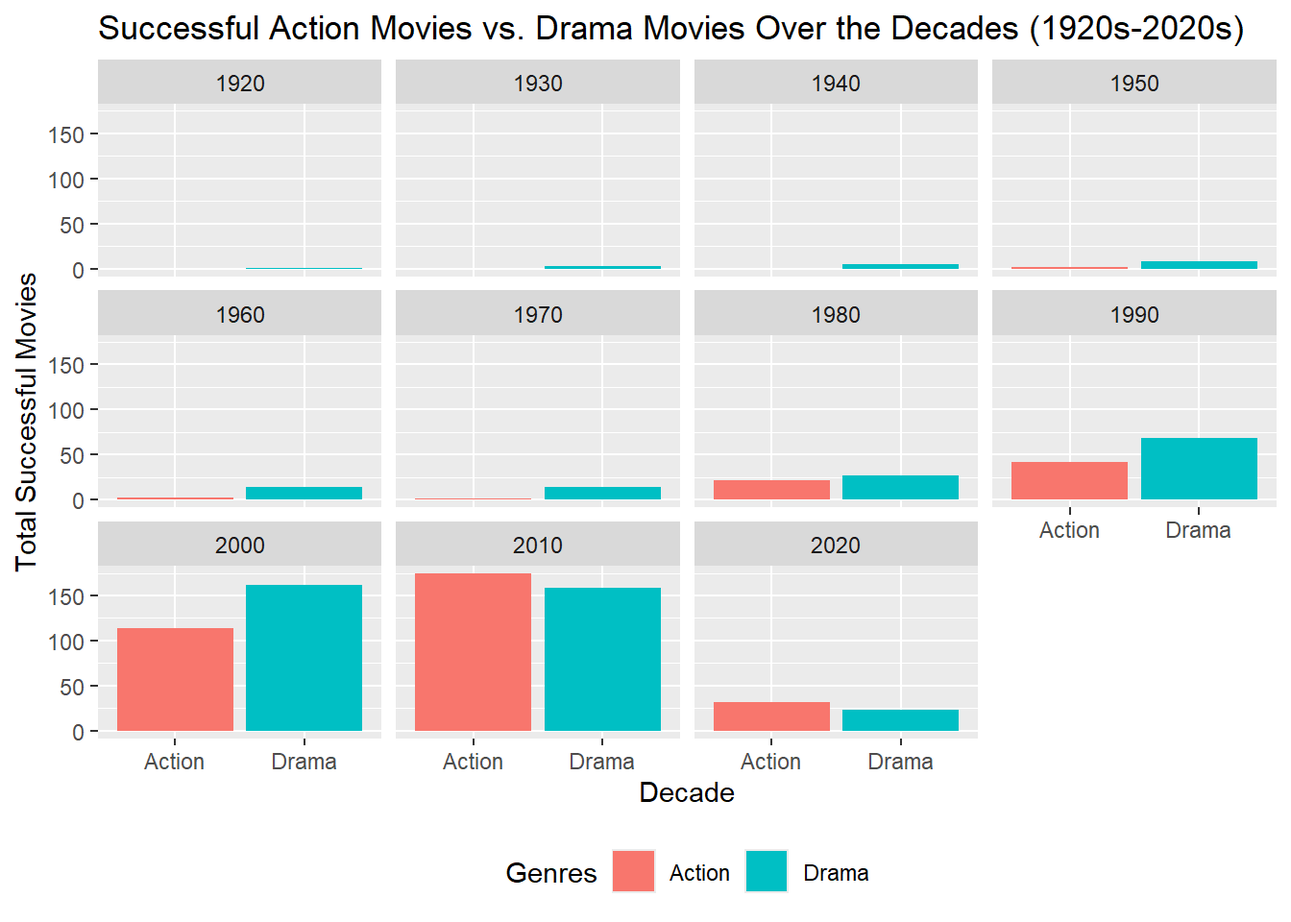
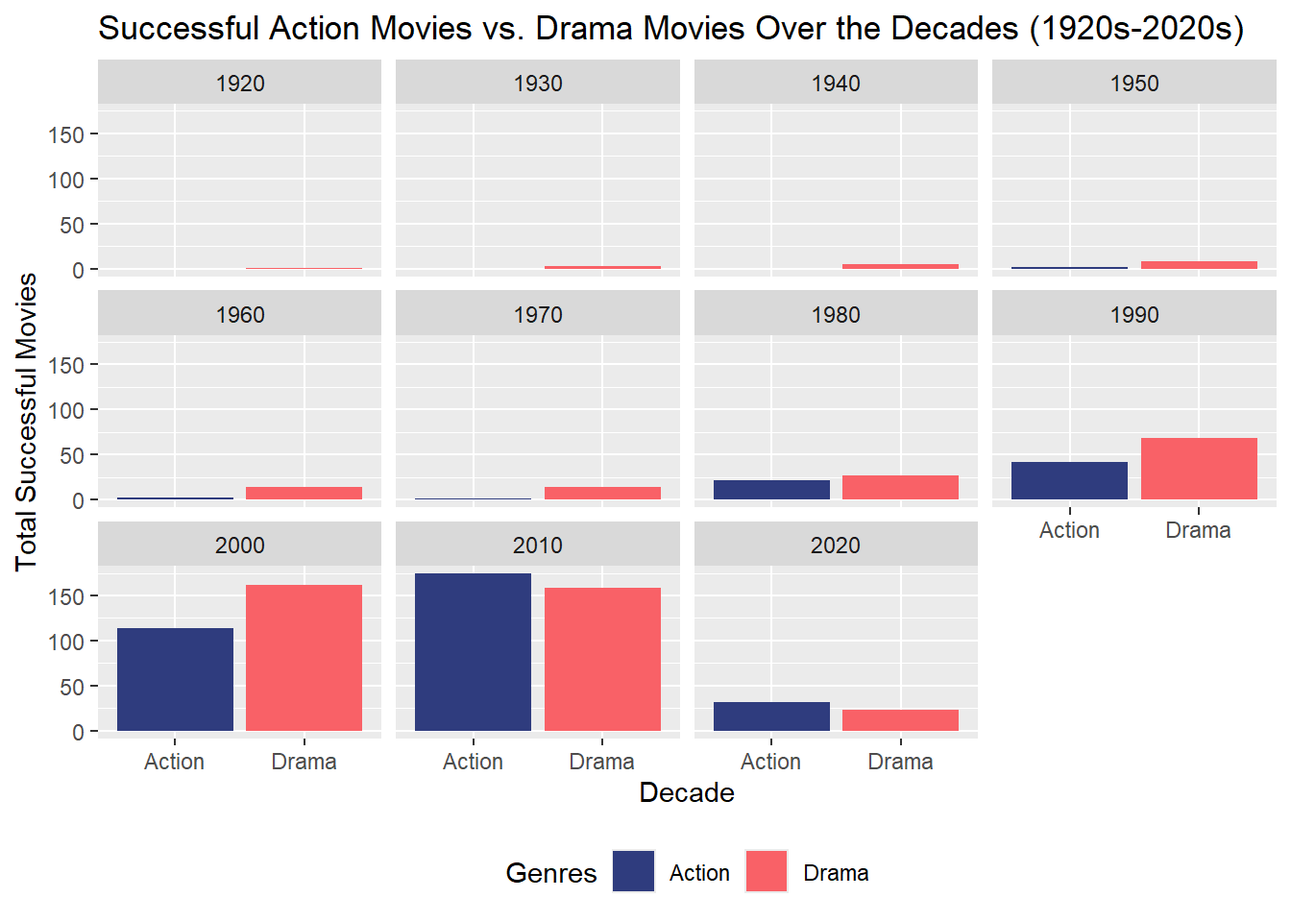
Updated formatting and edited some text.

diff --git a/docs/mp02.html b/docs/mp02.html
@@ -802,7 +802,7 @@ Validation Questions
 </div>
 </div>
 <p>For this question, I decided to filter my data table to include only movies that exceeded the 3rd quartile number of votes 1,665 votes with a success rate lower than the 1st quartile success indices 0.005.</p>
-<p>The lowest three were: Santa and the Ice Cream Bunny, Ax ’Em, and 2025 - The World Enslaved by a Virus. All three of these movies scored low on the success and had low average ratings from IMDb. <a href="https://www.rottentomatoes.com/">Rotten Tomatoes</a> provided some additional insight on these three movies. <em>Santa and the Ice Cream Bunny</em> scored a 12% on the popcornmeter (audience vote metric) out of a scale of 100, <em>Ax ’Em</em> scored a 36% on the popcornmeter, <em>2025 - The World Enslaved by a Virus</em> scored a 0% on the popcornmeter from Rotten Tomatoes. All of these movies scored generally low on this audience vote metric and thus confirms that these movies were of low quality.</p>
+<p>The lowest three were: <em>Santa and the Ice Cream Bunny</em>, <em>Ax ’Em</em>, and <em>2025 - The World Enslaved by a Virus</em>. All three of these movies scored low on the success and had low average ratings from IMDb. <a href="https://www.rottentomatoes.com/">Rotten Tomatoes</a> provided some additional insight on these three movies. <em>Santa and the Ice Cream Bunny</em> scored a 12% on the popcornmeter (audience vote metric) out of a scale of 100, <em>Ax ’Em</em> scored a 36% on the popcornmeter, <em>2025 - The World Enslaved by a Virus</em> scored a 0% on the popcornmeter from Rotten Tomatoes. All of these movies scored generally low on this audience vote metric and thus confirms that these movies were of low quality.</p>
 <div class="cell">
 <details class="code-fold">
 <summary>Code</summary>
@@ -822,7 +822,7 @@ Validation Questions
 </div>
 </div>
 <p><strong>Question #3</strong>: Choose a prestige actor or director and confirm that they have many projects with high scores on your success metric.</p>
-<p>After researching some of the most prestigious directors in the movie business, I found Steven Spielberg among the most popular directors and decided to use his data as a validation source for my success metric. Taking a look at the distribution of success for his works in the past, I found that a large majority of his works score higher on the success index than about 75% of the entire movie data set. This is a good indication that Steven Spielberg’s work is typically more successful.</p>
+<p>After researching some of the most prestigious directors in the movie business, I found Steven Spielberg among the most popular directors and decided to use his data as a validation source for my success metric. Taking a look at the distribution of success for his works in the past below, I found that a large majority of his works score higher on the success index than about 75% of the entire movie data set (indicated by the red dashed line). This is a good indication that Steven Spielberg’s work is typically more successful.</p>
 <div class="cell">
 <details class="code-fold">
 <summary>Code</summary>
@@ -1106,7 +1106,9 @@ Film Genre Questions
 <span id="cb68-7"><a href="#cb68-7" aria-hidden="true" tabindex="-1"></a>       <span class="at">x =</span> <span class="st">"Decade"</span>,</span>
 <span id="cb68-8"><a href="#cb68-8" aria-hidden="true" tabindex="-1"></a>       <span class="at">y =</span> <span class="st">"Total Successful Movies"</span>) <span class="sc">+</span></span>
 <span id="cb68-9"><a href="#cb68-9" aria-hidden="true" tabindex="-1"></a>  <span class="fu">scale_fill_discrete</span>(<span class="at">name =</span> <span class="st">"Genres"</span>) <span class="sc">+</span></span>
-<span id="cb68-10"><a href="#cb68-10" aria-hidden="true" tabindex="-1"></a>  <span class="fu">theme</span>(<span class="at">legend.position =</span> <span class="st">"bottom"</span>)</span></code><button title="Copy to Clipboard" class="code-copy-button"><i class="bi"></i></button></pre></div>
+<span id="cb68-10"><a href="#cb68-10" aria-hidden="true" tabindex="-1"></a>  <span class="fu">theme</span>(<span class="at">legend.position =</span> <span class="st">"bottom"</span>) <span class="sc">+</span></span>
+<span id="cb68-11"><a href="#cb68-11" aria-hidden="true" tabindex="-1"></a>  <span class="fu">scale_fill_manual</span>(<span class="at">name =</span> <span class="st">"Genres"</span>,</span>
+<span id="cb68-12"><a href="#cb68-12" aria-hidden="true" tabindex="-1"></a>                    <span class="at">values =</span> <span class="fu">c</span>(<span class="st">"Action"</span> <span class="ot">=</span> <span class="st">"#2F3C7E"</span>, <span class="st">"Drama"</span> <span class="ot">=</span> <span class="st">"#F96167"</span>))</span></code><button title="Copy to Clipboard" class="code-copy-button"><i class="bi"></i></button></pre></div>
 </details>
 <div class="cell-output-display">
 <div>
@@ -1157,7 +1159,7 @@ Film Genre Questions
 <span id="cb70-13"><a href="#cb70-13" aria-hidden="true" tabindex="-1"></a>  <span class="fu">arrange</span>(<span class="fu">desc</span>(percentage))</span></code><button title="Copy to Clipboard" class="code-copy-button"><i class="bi"></i></button></pre></div>
 </details>
 </div>
-<p>After taking a closer look, I found that actually the Sci-Fi genre produced the highest percentage of successes with 3.46% of successful movies, followed by Adventure with insert percentage here 3.16%. While the genres Action and Drama had the <strong>most</strong> successes, this could have been due to the considerable amount of movies produced in those genres. Sometimes, it is less about the quantity produced and more about the quality being produced. Despite the Sci-Fi genre not producing nearly the same amount of films as the Action and Drama genres, the percentage of successful films to come out of this genre is higher than the others, which is why we need to consider the Sci-Fi genre as a successful genre as well.</p>
+<p>After taking a closer look, I found that actually the Sci-Fi genre produced the highest percentage of successes with 3.46% of successful movies, followed by Adventure with 3.16%. While the genres Action and Drama had the <strong>most</strong> successes, this could have been due to the considerable amount of movies produced in those genres. Sometimes, it is less about the quantity produced and more about the quality being produced. Despite the Sci-Fi genre not producing nearly the same amount of films as the Action and Drama genres, the percentage of successful films to come out of this genre is higher than the others, which is why we need to consider the Sci-Fi genre as a successful genre as well.</p>
 <div class="cell">
 <details class="code-fold">
 <summary>Code</summary>
@@ -1278,7 +1280,9 @@ Film Genre Questions
 </section>
 <section id="genre-selection" class="level3">
 <h3 class="anchored" data-anchor-id="genre-selection">Genre Selection</h3>
-<p>The Drama genre’s dominance in the film industry was evident from the earliest days into the 21st century, with a consistently high output of successful movies. Drama movies succeeded in the 20th century, a period of significant social change and historical events, by evoking emotions and connecting with its audience’s experience. Over time, as the world experienced a technology boom, the movie industry also reflected this by observing a shift in genre success. Starting in the 2010s decade, the Action genre overtook Drama as the most dominant genre, producing more successful movies. The introduction of new technology like computer-generated imagery (CGI) and advanced stunt technology allowed for bolder and more fantastical movie production, propelling newer genres like Action to overtake traditional movies. However, despite the high output of successful Action films in more recent decades, its proportion of successful movies in relation to its total output lags behind genres like Sci-Fi and Adventure which each produce more successful movies per movie created in their respective genres. Since the Sci-Fi genre has a high success rate and somewhat of a low production (as compared to other genres), I would like to pursue a movie in the <strong>Sci-Fi</strong> genre.</p>
+<p>The Drama genre’s dominance in the film industry was evident from the earliest days into the 21st century, with a consistently high output of successful movies. Drama movies succeeded in the 20th century, a period of significant social change and historical events, by evoking emotions and connecting with its audience’s experience.</p>
+<p>Over time, as the world experienced a technology boom, the movie industry also reflected this by observing a shift in genre success. Starting in the 2010s decade, the Action genre overtook Drama as the most dominant genre, producing more successful movies. The introduction of new technology like computer-generated imagery (CGI) and advanced stunt technology allowed for bolder and more fantastical movie production, propelling newer genres like Action to overtake traditional movies.</p>
+<p>However, despite the high output of successful Action films in more recent decades, its proportion of successful movies in relation to its total output lags behind genres like Sci-Fi and Adventure which each produce more successful movies per movie created in their respective genres. Since the Sci-Fi genre has a high success rate and somewhat of a low production (as compared to other genres), I would like to pursue a movie in the <strong>Sci-Fi</strong> genre.</p>
 </section>
 </section>
 <section id="successful-personnel-in-the-genre" class="level2">
@@ -1332,7 +1336,7 @@ Film Genre Questions
 <pre><code>Steven Spielberg Top  1.69 % of Sci-Fi Directors</code></pre>
 </div>
 </div>
-<p>In the histogram below, Steven Spielberg actually ranks in the top 1.69% of Sci-Fi directors, solidifying his position as a highly successful director among the most top tier Sci-Fi directors.</p>
+<p>In the histogram below, Steven Spielberg actually ranks in the top 1.69% of Sci-Fi directors, solidifying his position as a highly successful director among the most top tier Sci-Fi directors. The blue dashed line indicates where Spielberg’s average success metric falls in relation to other Sci-Fi directors.</p>
 <div class="cell">
 <details class="code-fold">
 <summary>Code</summary>
@@ -1355,7 +1359,7 @@ Film Genre Questions
 </div>
 </div>
 </div>
-<p>Taking a closer look at the Sci-Fi films that Spielberg has produced, we can see that a large majority of the Sci-Fi films Spielberg has been a part of have been successes.</p>
+<p>Taking a closer look at the Sci-Fi films that Spielberg has produced, we can see that a large majority of the Sci-Fi films Spielberg has been a part of have been successes. The red dashed line indicates the success threshold of v = 0.2.</p>
 <div class="cell">
 <details class="code-fold">
 <summary>Code</summary>
@@ -1456,7 +1460,8 @@ Film Genre Questions
 <span id="cb82-26"><a href="#cb82-26" aria-hidden="true" tabindex="-1"></a>       <span class="at">fill =</span> <span class="st">"Directors"</span>) <span class="sc">+</span></span>
 <span id="cb82-27"><a href="#cb82-27" aria-hidden="true" tabindex="-1"></a>  <span class="fu">theme</span>(<span class="at">legend.position =</span> <span class="st">"bottom"</span>) <span class="sc">+</span></span>
 <span id="cb82-28"><a href="#cb82-28" aria-hidden="true" tabindex="-1"></a>  <span class="fu">scale_x_discrete</span>(<span class="at">limits =</span> movie_order) <span class="sc">+</span></span>
-<span id="cb82-29"><a href="#cb82-29" aria-hidden="true" tabindex="-1"></a>  <span class="fu">scale_fill_discrete</span>(<span class="at">guide =</span> <span class="fu">guide_legend</span>(<span class="at">reverse =</span> <span class="cn">TRUE</span>))</span></code><button title="Copy to Clipboard" class="code-copy-button"><i class="bi"></i></button></pre></div>
+<span id="cb82-29"><a href="#cb82-29" aria-hidden="true" tabindex="-1"></a>  <span class="fu">scale_fill_manual</span>(<span class="at">values =</span> <span class="fu">c</span>(<span class="st">"Steven Spielberg"</span> <span class="ot">=</span> <span class="st">"#519DE9"</span>, <span class="st">"James Mangold"</span> <span class="ot">=</span> <span class="st">"#f94449"</span>),</span>
+<span id="cb82-30"><a href="#cb82-30" aria-hidden="true" tabindex="-1"></a>                    <span class="at">guide =</span> <span class="fu">guide_legend</span>(<span class="at">reverse =</span> <span class="cn">TRUE</span>))</span></code><button title="Copy to Clipboard" class="code-copy-button"><i class="bi"></i></button></pre></div>
 </details>
 <div class="cell-output-display">
 <div>
@@ -1493,7 +1498,7 @@ Film Genre Questions
 <script type="application/json" data-for="htmlwidget-392e43c592915f7830e6">{"x":{"filter":"none","vertical":false,"data":[["nm2195817","nm2954703","nm7210986","nm4087524","nm4043618","nm1727057","nm3918035","nm8075925","nm2875966","nm3094377","nm3237775","nm3154303","nm2640264","nm2954597","nm5896355","nm2079681","nm2794962","nm5994098","nm6073955","nm5611121","nm5052065","nm4590173","nm3041648","nm8188622","nm6552202","nm4240577","nm2864252","nm0416699","nm1517875","nm2185462","nm4927704","nm1631269","nm2023672","nm1470128","nm1904886","nm3492402","nm2619114","nm4699715","nm8314228","nm4753307","nm1339223","nm5897057","nm6819854","nm7887725","nm9165599","nm4446467","nm5421877","nm1519680","nm1113550","nm1535523","nm5015107","nm2389463","nm4806449","nm5155952","nm2240346","nm3538718","nm3886028","nm7093076","nm1627988","nm3505032","nm4948500","nm2633535","nm0266824","nm4960279","nm3239803","nm3652842","nm5097044","nm8731249","nm1997480","nm3170207","nm3480246","nm9305936","nm2065398","nm4726634","nm1102577","nm1496319","nm8958770","nm7543974","nm7230577","nm7359071","nm2030779","nm6761813","nm2215143","nm3441152","nm3774109","nm4861346","nm5506858","nm7650817","nm9209960","nm3557613","nm3843467","nm5480894","nm2773059","nm5277107","nm5860559","nm2556904","nm4725309","nm2425105","nm2484195","nm4977564","nm6076321","nm1842974","nm2044796","nm3849842","nm3945747","nm2610277","nm4563780","nm2740002","nm8850556","nm5145057","nm9311474","nm1262166","nm4825013","nm3121384","nm1882929","nm3198709","nm5589690","nm6304865","nm3240434","nm3929195","nm7987534","nm1294664","nm1525807","nm4469165","nm6216001","nm1483241","nm3920288","nm4814017","nm5462166","nm3419119","nm8077090","nm4055138","nm1934618","nm4722966","nm4836100","nm2301950","nm4920741","nm6408859","nm7393303","nm2970078","nm3047077","nm5994559","nm10035940","nm1367490","nm2743784","nm3586035","nm5196907","nm6140880","nm2398694","nm2640887","nm10023988","nm1795989","nm2344493","nm6563873","nm2786608","nm2187641","nm2443758","nm2523920","nm4789062","nm6675440","nm1364532","nm2254074","nm5303080","nm7775934","nm1891158","nm2572554","nm2811823","nm3400186","nm3425494","nm3559009","nm4563869","nm8467055","nm1370269","nm4796309","nm5302788","nm9875384","nm3127051","nm3453476","nm2858875","nm3856188","nm4001975","nm4965072","nm1505370","nm2124254","nm3665657","nm1702723","nm3929887","nm5801924","nm6914293","nm7961340","nm8337290","nm2498552","nm3056937","nm4457775","nm6239256","nm6057785","nm6165535","nm7659282","nm8065502","nm9257848","nm10587791","nm1326000","nm14293621","nm2212688","nm3731944","nm4729403","nm6001320","nm2421367","nm4883197","nm5193462","nm6189601","nm7717840","nm8037342","nm9642493","nm9913973","nm10182951","nm2356963","nm3602806","nm5614461","nm10174309","nm1832645","nm2027428","nm2692001","nm3034501","nm3382410","nm4153468","nm6829691","nm9524976","nm1504644","nm2922341","nm3276835","nm8367841","nm9090581","nm10584760","nm12282746","nm5315479","nm7594279","nm8020147","nm8774122","nm9450603","nm2277072","nm2624923","nm5844090","nm7108248","nm7504614","nm8981755","nm11459716","nm11908762","nm3385128","nm4007171","nm4589523","nm5219118","nm6136318","nm7441315","nm8566784","nm0860687","nm10177869","nm6092929","nm0425287","nm1133857","nm1169797","nm2523928","nm2566096","nm2836740","nm2987726","nm3036925","nm4001114","nm4024158","nm4083120","nm4785118","nm5637334","nm9350576","nm9991365","nm10040186","nm3577079","nm4205963","nm4238309","nm4937591","nm5128387","nm5400953","nm6338727","nm6674017","nm6914447","nm10404430","nm12608848","nm14833307","nm2264199","nm4120909","nm4309684","nm4514442","nm5683784","nm5729528","nm9574516","nm0616481","nm11542966","nm13537177","nm3415802","nm3873895","nm4081467","nm4115744","nm4724525","nm4845037","nm4961623","nm5531935","nm6000119","nm6215731","nm6648061","nm7144013","nm7318700","nm7591921","nm8306579","nm8630844","nm10448524","nm10921740","nm15496845","nm2065668","nm2352896","nm2965079","nm3827211","nm3893807","nm4750182","nm5120200","nm6594362","nm6832719","nm7308188","nm7329736","nm8194302","nm8387514","nm11207129","nm11443776","nm12745887","nm1559927","nm2316151","nm2854131","nm3109658","nm3145634","nm3582197","nm4350996","nm5211886","nm5352046","nm5979068","nm6836919","nm6982686","nm7134395","nm7387710","nm8629695","nm9984948","nm10833355","nm11142694","nm11382629","nm12106219","nm12786101","nm12953205","nm1983609","nm2366492","nm3817466","nm4157570","nm4377936","nm4745013","nm5393649","nm5455787","nm5644551","nm5780417","nm6224152","nm7535414","nm8029525","nm8682294","nm8874294","nm11083042","nm12127644","nm1534909","nm2021156","nm2885133","nm2961248","nm2965625","nm3241167","nm3737209","nm4119074","nm4189269","nm4197678","nm4988864","nm5030374","nm5542761","nm5566180","nm5758954","nm6523480","nm6598013","nm7052261","nm7407528","nm8910575","nm9160478","nm9288379","nm9708304","nm10006190","nm11327041","nm13965142","nm2330321","nm2598945","nm2712661","nm2740213","nm3449999","nm4485819","nm4571370","nm4854961","nm5184025","nm5572843","nm5615125","nm5954636","nm6044626","nm6191647","nm6215441","nm6377317","nm7126666","nm7227027","nm8747878","nm9063492","nm0990679","nm1151223","nm1327077","nm13274469","nm2782505","nm3174585","nm3432082","nm4376572","nm4676512","nm5618871","nm5713359","nm6279069","nm6294928","nm6716450","nm6902009","nm6929994","nm7165209","nm7184317","nm10152396","nm10361469","nm12913316","nm1517297","nm1534694","nm2547201","nm2900452","nm3835968","nm3861093","nm4136800","nm5199313","nm5617568","nm6517501","nm7093928","nm7593690","nm7752825","nm7998427","nm8395315","nm8719707","nm9113275","nm10533080","nm11492652","nm11790300","nm12693539","nm2539253","nm2676589","nm2856538","nm3379792","nm4077567","nm4104916","nm4302042","nm5153709","nm5425625","nm5703727","nm5837781","nm6371226","nm7661368","nm7744616","nm7779130","nm8294124","nm8435114","nm8694418","nm9146558","nm9296873","nm9596175","nm1085816","nm12340952","nm12751419","nm12751420","nm12751421","nm12751422","nm13015385","nm1455721","nm2376318","nm2788600","nm3916896","nm4974693","nm4985295","nm5391976","nm5547023","nm5947080","nm6403015","nm6937225","nm7146328","nm7440904","nm7594539","nm7601638","nm8036353","nm8960303","nm9014954","nm9638766","nm11539428","nm2542694","nm4005126","nm4813542","nm5563537","nm5623097","nm5810134","nm6926413","nm6943131","nm8528863","nm8752530","nm9290412","nm9764756","nm12231945","nm12308504","nm2310307","nm2399308","nm3731361","nm4658287","nm5853453","nm6250010"],["Samantha Mahurin","Zoë Soul","Erin Kellyman","Riley Griffiths","Tom Holland","Luke Bromley","Zendaya","Millicent Simmonds","Laurence Belcher","Willow Shields","Mackenzie Foy","Timothée Chalamet","CJ Adams","Aryana Engineer","Anya Taylor-Joy","Morgan Lily","Hailee Steinfeld","Archie Madekwe","Florence Pugh","Millie Bobby Brown","Ansel Elgort","Emma Tremblay","Lara Robinson","Jacob Batalon","Brianna Hildebrand","Khylin Rhambo","Mason Gooding","Liam James","Zach Mills","Charlie Rowe","Xolo Maridueña","Chloë Grace Moretz","Dakota Goyo","Tanveer K. Atwal","Mia Stallard","Emjay Anthony","Ryan Lee","Madeleine Arthur","Cailee Spaeny","Suraj Partha","Ty Simpkins","Jaeden Martell","Justice Smith","Fionn Whitehead","Quintessa Swindell","Tye Sheridan","Julian Dennison","Saoirse Ronan","Abigail Breslin","Jaden Smith","Jacob Lofland","Bill Milner","Joseph Quinn","Brandon Perea","Kodi Smit-McPhee","Nick Robinson","Angourie Rice","Lana Condor","Fallon Brooking","Izzy Meikle-Small","Blake Cooper","Asa Butterfield","Dakota Fanning","Margaret Qualley","Kaitlyn Dever","Isaac Hempstead Wright","Isabela Merced","Ayo Edebiri","Nathan Gamble","Noah Centineo","Ella Purnell","Celeste O'Connor","Evie Thompson","Haley Lu Richardson","Elle Fanning","Ashlyn Sanchez","Paul Mescal","Aaron Pierre","Mathilde Ollivier","Ewan Mitchell","Moises Arias","Jenna Davis","Kiernan Shipka","Israel Broussard","Sami Gayle","Algee Smith","Andi Matichak","Belissa Escobedo","Barbie Ferreira","Karan Brar","Odeya Rush","Ashton Sanders","Gabriel Basso","Keean Johnson","Tofi Seffer","Tiffany Espensen","James Tarpey","Chandler Canterbury","Ricardo Hoyos","Storm Reid","Amelia Crouch","Alex Wolff","Jackson Bond","Sophie Turner","Yukito Nishii","Haley Pullos","Aurora Perrineau","Clare Foley","Archie Renaux","Talitha Eliana Bateman","Jeon Jong-seo","Ariel Gade","Kiara Glasco","Becky G","Liana Liberato","John Paul Ruttan","Madison Iseman","Jordan Bolger","Jakob Davies","Erin Moriarty","Jessica Alexander","Ellar Coltrane","Joel Courtney","Garance Marillier","KJ Apa","Dylan Hartigan","Taissa Farmiga","Kylie Rogers","Madison Hu","Reese Hartwig","Myles Truitt","Charlie Plummer","Max Charles","Virginia Gardner","Nell Tiger Free","Dakota Blue Richards","Rory J Saper","Michael Gandolfini","Sophie Thatcher","Jessica Clement","Nele Trebs","Danielle Rose Russell","Manushi Chhillar","Bruna Marquezine","Megan Charpentier","Maisie Williams","Courtney Eaton","Clara Rugaard","Karley Scott Collins","Stefanie Scott","Havana Rose Liu","Leo Howard","Brandon Thomas Lee","Kyle Allen","Callan McAuliffe","Ohga Tanaka","Nicola Peltz Beckham","Logan Polish","Lucius Hoyos","Lily-Rose Depp","Ryan Simpkins","Bella Thorne","William Ainscough","Alaya F","Scotty Noyd Jr.","Peyton List","Sierra McCormick","Julia Garner","Ursula Parker","Paula Beer","Sophie Nélisse","Alexxis Lemire","Max Burkholder","Josie Totah","Jeff Wahlberg","Milena Smit","Olivia Holt","Anne Winters","Sydney Sweeney","Gracie Whitton","Mattie Liptak","Lukas Gage","Hannah Leigh","Grayson Russell","Levi Lobo","Sol Moreno","Lili Reinhart","Gizem Emre","Milena Radulovic","Matilda Freeman","Inez Dahl Torhaug","Kim Yoo-jung","Nerea Camacho","Ella Hunt","Brittany O'Grady","Milo Parker","Jinmai Zhao","Juliet Simmons","Dempsey Bryk","Go Min-si","Hope Ikpoku Jnr","Teja Sajja","Freen Sarocha Chankimha","Patrick Criado","Ekaterina Starshova","Nick Purcha","Chanté Adams","Cody Christian","Meg Donnelly","Hirona Yamazaki","Esther Anil","Milo Campanale","Lukita Maxwell","Sadie Stanley","Kim Da-mi","Chaithra J. Achar","Bea Miller","Autumn Wendel","Spencer Bogaert","Gouri Kishan","Kuan-Po Chen","Óscar Casas","Tom Böttcher","Natalia Dyer","Ruby O. Fee","Hana Hayes","Théodore Pellerin","Chuxiao Qu","Hans-Laurin Beyerling","Jiao Xu","Brighton Sharbino","Lauren LaVera","Caylee Cowan","Mirnalini Ravi","Rebecca Patricia 'Becky' Armstrong","Tilda Cobham-Hervey","Lovie Simone","Justin Matthews","Eric Masip","Preethi Asrani","Kayla Carlson","Jacob Hopkins","Malina Pauli Weissman","Bae Suzy","Ned Porteous","Jung Da-Eun","Divya Narni","Mandava Sai Kumar","Chandler Riggs","Percy Hynes White","Théophile Baquet","Gina Piersanti","Garrett Wareing","Lee Soo-kyung","Eman Esfandi","Sara Thompson","Divya Sripada","Reina Ueda","Jake Johnson","Rosie Day","Ai Hashimoto","Jasper Polish","Ryan Grantham","Danielle Campbell","Shim Eun-kyung","Greta Fernández","Mikel Iglesias","Diamond White","Gabrielle Elyse","Ayane Sakura","Mio Yûki","Indhuja Ravichandran","Benjamin Dino","Asante Blackk","Anfisa Chernykh","Oulaya Amamra","Mila Böhning","Emily Marie Palmer","Teo Halm","Sofia Lesaffre","Can Bartu Aslan","Sarah Assumma","Chae Soo-bin","Sonya Priss","Md Anan Islam","Ahamed Danial Al Fayed","Robbie Kay","Tanner Buchanan","Ketaki Mategaonkar","Ryôsuke Yamamoto","Denis Muric","Kavya Thapar","Tanya Hope","Omar Muñoz","Veronika Ustimova","Nahna James","Vassili Schneider","Artyom Fadeev","Kento Yamazaki","Joost Koning","Jonas Smulders","Jade Chynoweth","Isabelle Allen","Sydne Mikelle","Emery Kelly","Cooper van Grootel","Gabrielle Haugh","Park Seo-yeon","Shannon Berry","Roh Jeong-eui","Megha Akash","Gavin Leatherwood","Yevgeniy Yegorov","Loren Gray","Alan Grinstein","Mayuko Fukuda","Lisa-Marie Koroll","Caitlin Carmichael","Emma Rayne Lyle","Gro Swantje Kohlhof","Emma Bading","Austin Fryberger","Nash Grier","Andrea Doimeadiós","Kaya Kiyohara","Alexandra Bokova","Shivani Rajashekar","Anarkali Marikar","Huda El Mufti","Park Ju-hyun","Gayatri Bhardwaj","Booboo Stewart","Robert Naylor","Luke Bilyk","Valeria Eisenbart","Tao Tsuchiya","Lisa Vicari","Mahiro Takasugi","Jill Harris","Karen Obilom","Nana Seino","Madison Horcher","Logan Paul","Na-Na OuYang","Nabha Natesh","Liza Moryak","Georgie McGuigan","Kpy Bala","Noah Tinwa","Jackie Li","Marta Stalmierska","Darya Vereshchagina","Mark Eidelshtein","Quinn Lujan","Noell Coet","Julia Sarah Stone","Flynn Allen","Kayano Masuyama","Olaf Marchwicki","Katelyn Nacon","Vico Escorcia","Minori Hagiwara","Casimere Jollette","Paula Gallego","Jason Genao","Honoka Matsumoto","Yaashika Aanand","Kristian Ventura","Hossein Rahmani Manesh","Natalia Pitry","Alexandria DeBerry","Savannah Jayde","Antoine L'Écuyer","Eva De Dominici","Madan Deodhar","Josh Feldman","Mei Nagano","Jordyn Negri","Mayu Watanabe","James Gaisford","Vincenzo Crea","Viktoriya Agalakova","Rahart Adams","Siena Agudong","Seika Furuhata","Yûgo Mikawa","Miyabi Matsuura","Yuliya Serina","Lee Jae-in","Eiji Akaso","Mikolaj Kubacki","Aleksander Kaleta","Alicja Wieniawa-Narkiewicz","Mikolaj Matczak","Losliya Mariyanesan","KateTed","Dashiell Connery","William Brent","Jenna Wheeler-Hughes","Elijah Nelson","Voltaire Colin Council","Paloma Kwiatkowski","Arisa Komiya","Ivanna Sakhno","Eloise Smyth","Evan Roe","Emma Verlinden","Sergey A.","Chihiro Yamamoto","Emily Willis","Lauren Lindsey Donzis","Josh Lee Aikin","Hana El Zahed","Sarah McDaniel","Calem MacDonald","Shirin Kanchwala","Jeanne Buchard","Kenta Suga","Veronica Hampson","Jenna Hogan","Charlotte Best","Christina Mandrell","Seishirô Katô","Luke Gregory Crosby","Mackenzie Ziegler","Pommelien Thijs","Sabina Rojková","Marybeth Havens","Shivani Rangole","Frieda Barnhard","Denise Tantucci","Yumiri Hanamori","Fiorella Bottaioli","Nao Honda","Gabz","Fumiya Takahashi","Veronika Mox","Alexander Agate","Allisyn Snyder","Julia Batelaan","Addy Miller","Tatsuomi Hamada","Juliana Destefano","Kaito Kobayashi","Jenna Warren","Benny O. Arthur","Atsuhiro Inukai","Michaela Gilchrist","Meredith Foster","Pallak Lalwani","Miley Rose","Hiroe Igeta","Brandon Santana","Paulina Walendziak","Dallas Schaefer","Zelma Feldman Lewerissa","Liz Jordan","Viktor Hjelmsø","Anna Agafia Svideniouk Egholm","Jett Patrick","Sam Cohen","Joseph Baena","Ava Cantrell","Takuya Negishi","Zalán Takács","Ariana Guerra","Anvar Khalilulaev","Kelly Lynn Reiter","Michael Campion","Brad Belemjian","Vanessa Caine","Elizaveta Kononova","Deni Alasaniya","Amanda Rawles","Gigi Gustin","Egor Bulatkin","Margarita Abroskina","Magdalena Wieczorek","Lexi Lore","Ryosuke Koike","Ayane Kinoshita","Yoon Kee-ho","Choi Tae-Yang","Choi Ji-ung","Hwang In-tak","Jake Schory","Igor Rudolf","Toke Lars Bjarke","Christine Mascolo","Georgina Tolentino","Salah Boudrar","Zac Pullam","Miles Roughley","Hunter Doohan","Jillian Janson","Inês Sá Frias","Liv Leman Brandorf","Kasper Løfvall Stensbirk","Hircano Soares","Aleksander Novikov","Kira Noir","Rachel Sutton","Azeem Vecchio","Anirudh Pisharody","Piper Verbrick","Darcy Doyle","Haidyn Harvey","Jayna Sweet","Anna Iriyama","Jacqueline Joe","Zachariah Supka","Violet Paley","Grayson Lange","Albert Rosin Harson","Peemapol Panichtamrong","Andrew J. Forner","Eva Igo","Faith Kiggundu","Thapelo Mashiane","Marven Gabriel Suarez-Brinkert","Krisondra Daigneault","Ben Garton","Karl Hughes","Abbey Kochman","Timotheus Hucklestone","Alexander Straub"],[25,29,26,27,28,30,28,21,29,24,24,29,24,23,28,24,28,29,28,20,30,20,26,28,28,28,28,28,29,28,23,27,25,30,28,21,28,27,26,27,23,21,29,27,27,28,22,30,28,26,28,29,30,29,28,29,23,27,28,28,23,27,30,30,28,25,23,29,26,28,28,26,29,29,26,28,28,30,30,27,30,20,25,30,28,30,30,26,28,25,27,29,30,28,21,25,30,26,29,21,20,27,28,28,29,26,30,23,27,23,30,27,23,27,29,23,27,30,21,30,25,30,28,26,27,28,30,20,22,26,22,25,21,29,25,30,28,25,24,29,25,25,27,29,23,27,28,27,25,28,27,27,28,30,29,27,29,23,23,25,26,27,21,27,25,26,27,30,21,29,24,28,27,23,28,28,27,30,27,20,28,29,28,26,30,29,28,29,29,20,20,25,28,26,28,22,22,29,28,29,23,30,26,29,23,27,30,29,24,30,23,22,23,23,29,29,25,27,27,25,30,26,30,29,28,25,27,30,27,27,22,30,26,29,22,30,26,29,29,25,25,22,21,30,30,30,28,23,25,23,26,27,23,28,30,29,28,30,27,29,28,27,26,29,30,29,28,25,28,30,25,30,28,23,28,28,23,30,25,27,24,20,30,29,20,20,29,26,30,29,25,29,28,29,20,20,25,21,30,28,30,26,22,29,27,23,28,22,25,23,29,30,25,22,30,30,27,20,21,30,26,29,27,30,22,24,28,27,30,30,29,30,28,30,26,29,27,28,30,30,30,20,29,24,29,29,26,29,23,29,27,27,22,26,30,27,21,30,21,25,28,27,28,20,28,27,25,25,20,25,30,30,27,29,30,25,25,24,30,30,25,28,28,20,28,30,29,30,20,30,29,29,21,25,29,26,27,29,28,25,28,30,30,27,29,24,24,28,28,26,20,30,30,29,24,29,28,30,26,28,30,29,23,29,20,23,27,28,29,29,27,27,29,29,25,23,26,30,28,28,24,24,29,23,24,27,30,27,29,26,30,27,28,30,30,28,23,23,28,24,25,27,23,28,29,30,29,27,22,30,28,27,26,24,28,30,30,29,26,29,24,23,23,23,21,25,28,25,27,29,24,23,22,30,29,30,23,30,23,20,30,26,28,30,24,26,27,29,29,25,21,30,30,22,25,30,22,25,20,21,30,29,29,23,30,29],["actress","actress","actress","actor","actor","actor","actress","actress","actor","actress","actress","actor","actor","actress","actress","actress","actress","actor","actress","actress","actor","actress","actress","actor","actress","actor","actor","actor","actor","actor","actor","actress","actor","actress","actress","actor","actor","actress","actress","actor","actor","actor","actor","actor","actress","actor","actor","actress","actress","actor","actor","actor","actor","actor","actor","actor","actress","actress","actress","actress","actor","actor","actress","actress","actress","actor","actress","actress","actor","actor","actress","actress","actress","actress","actress","actress","actor","actor","actress","actor","actor","actress","actress","actor","actress","actor","actress","actress","actress","actor","actress","actor","actor","actor","actor","actress","actor","actor","actor","actress","actress","actor","actor","actress","actor","actress","actress","actress","actor","actress","actress","actress","actress","actress","actress","actor","actress","actor","actor","actress","actress","actor","actor","actress","actor","actor","actress","actress","actress","actor","actor","actor","actor","actress","actress","actress","actor","actor","actress","actress","actress","actress","actress","actress","actress","actress","actress","actress","actress","actress","actress","actor","actor","actor","actor","actor","actress","actress","actor","actress","actress","actress","actor","actress","actor","actress","actress","actress","actress","actress","actress","actress","actor","actress","actor","actress","actress","actress","actress","actress","actor","actor","actress","actor","actor","actress","actress","actress","actress","actress","actress","actress","actress","actress","actress","actor","actress","actress","actor","actress","actor","actor","actress","actor","actress","actor","actress","actor","actress","actress","actress","actor","actress","actress","actress","actress","actress","actress","actor","actress","actor","actor","actor","actress","actress","actress","actor","actor","actor","actress","actress","actress","actress","actress","actress","actress","actress","actor","actor","actress","actress","actor","actress","actress","actor","actress","actress","actor","actor","actor","actor","actress","actor","actress","actor","actress","actress","actress","actor","actress","actress","actress","actor","actress","actress","actress","actor","actress","actress","actress","actress","actress","actor","actor","actress","actress","actress","actress","actor","actress","actor","actress","actress","actress","actor","actor","actor","actor","actress","actor","actor","actress","actress","actor","actress","actor","actor","actor","actor","actor","actor","actress","actress","actress","actor","actor","actress","actress","actress","actress","actress","actor","actor","actress","actor","actress","actress","actress","actress","actress","actress","actor","actor","actress","actress","actress","actress","actress","actress","actress","actress","actor","actor","actor","actress","actress","actress","actor","actress","actress","actress","actress","actor","actress","actress","actress","actress","actor","actor","actress","actress","actress","actor","actor","actress","actress","actor","actress","actor","actress","actress","actress","actress","actress","actor","actress","actress","actor","actor","actress","actress","actress","actor","actress","actor","actor","actress","actress","actress","actor","actor","actress","actor","actress","actress","actor","actress","actress","actress","actor","actor","actor","actress","actor","actress","actor","actor","actor","actress","actor","actor","actress","actress","actress","actress","actor","actress","actor","actress","actress","actress","actor","actress","actress","actor","actress","actress","actor","actress","actress","actress","actress","actor","actor","actress","actress","actress","actress","actress","actress","actress","actress","actress","actress","actress","actor","actress","actor","actress","actress","actress","actor","actress","actor","actress","actor","actor","actress","actress","actress","actress","actress","actor","actress","actor","actress","actress","actor","actress","actor","actor","actor","actress","actor","actor","actress","actor","actress","actor","actor","actress","actress","actor","actress","actress","actor","actress","actress","actress","actor","actress","actor","actor","actor","actor","actor","actor","actor","actress","actress","actress","actor","actor","actor","actress","actress","actress","actor","actor","actor","actress","actress","actor","actor","actress","actress","actress","actress","actress","actress","actor","actress","actor","actor","actor","actor","actress","actress","actor","actor","actress","actor","actor","actress","actor","actor"],[0.6,0.294,0.25,0.248,0.234,0.221,0.221,0.202,0.196,0.19,0.186,0.168,0.167,0.163,0.142,0.141,0.141,0.138,0.138,0.136,0.133,0.132,0.129,0.126,0.125,0.124,0.117,0.112,0.111,0.11,0.11,0.105,0.104,0.103,0.103,0.103,0.102,0.102,0.102,0.101,0.1,0.099,0.099,0.098,0.096,0.095,0.095,0.094,0.093,0.089,0.089,0.08799999999999999,0.08699999999999999,0.08699999999999999,0.08599999999999999,0.08599999999999999,0.08500000000000001,0.08500000000000001,0.08400000000000001,0.08400000000000001,0.08400000000000001,0.083,0.081,0.079,0.076,0.076,0.076,0.075,0.074,0.073,0.073,0.073,0.07199999999999999,0.07199999999999999,0.07099999999999999,0.07099999999999999,0.07099999999999999,0.07000000000000001,0.068,0.068,0.067,0.067,0.066,0.066,0.066,0.066,0.066,0.066,0.066,0.065,0.065,0.065,0.064,0.064,0.064,0.063,0.062,0.061,0.061,0.061,0.06,0.059,0.059,0.059,0.059,0.058,0.058,0.057,0.057,0.056,0.055,0.054,0.054,0.053,0.052,0.052,0.052,0.052,0.05,0.05,0.05,0.049,0.049,0.049,0.049,0.048,0.048,0.048,0.048,0.047,0.047,0.046,0.045,0.044,0.044,0.043,0.043,0.042,0.042,0.041,0.041,0.041,0.04,0.04,0.04,0.04,0.04,0.04,0.039,0.039,0.038,0.038,0.038,0.038,0.037,0.036,0.036,0.036,0.036,0.036,0.035,0.035,0.035,0.035,0.034,0.034,0.034,0.034,0.034,0.034,0.034,0.034,0.033,0.033,0.033,0.033,0.032,0.032,0.031,0.031,0.031,0.031,0.03,0.03,0.03,0.029,0.029,0.029,0.029,0.029,0.029,0.028,0.028,0.028,0.028,0.027,0.027,0.026,0.026,0.026,0.025,0.025,0.025,0.025,0.025,0.025,0.025,0.024,0.024,0.024,0.024,0.024,0.024,0.024,0.024,0.023,0.023,0.023,0.023,0.022,0.022,0.022,0.022,0.022,0.022,0.022,0.022,0.022,0.021,0.021,0.021,0.021,0.021,0.02,0.02,0.02,0.02,0.02,0.02,0.02,0.019,0.019,0.019,0.019,0.019,0.019,0.018,0.018,0.018,0.018,0.018,0.018,0.018,0.018,0.018,0.017,0.017,0.017,0.016,0.016,0.016,0.016,0.016,0.016,0.016,0.016,0.016,0.016,0.016,0.016,0.016,0.016,0.016,0.015,0.015,0.015,0.015,0.015,0.015,0.015,0.015,0.015,0.015,0.014,0.014,0.014,0.014,0.014,0.014,0.014,0.014,0.014,0.014,0.013,0.013,0.013,0.013,0.013,0.013,0.013,0.013,0.013,0.013,0.013,0.013,0.013,0.013,0.013,0.013,0.013,0.013,0.013,0.012,0.012,0.012,0.012,0.012,0.012,0.012,0.012,0.012,0.012,0.012,0.012,0.012,0.012,0.012,0.012,0.011,0.011,0.011,0.011,0.011,0.011,0.011,0.011,0.011,0.011,0.011,0.011,0.011,0.011,0.011,0.011,0.011,0.011,0.011,0.01,0.01,0.01,0.01,0.01,0.01,0.01,0.01,0.01,0.01,0.01,0.01,0.01,0.01,0.01,0.01,0.01,0.01,0.01,0.01,0.01,0.008999999999999999,0.008999999999999999,0.008999999999999999,0.008999999999999999,0.008999999999999999,0.008999999999999999,0.008999999999999999,0.008999999999999999,0.008999999999999999,0.008999999999999999,0.008999999999999999,0.008999999999999999,0.008999999999999999,0.008999999999999999,0.008999999999999999,0.008999999999999999,0.008999999999999999,0.008999999999999999,0.008999999999999999,0.008999999999999999,0.008999999999999999,0.008999999999999999,0.008999999999999999,0.008999999999999999,0.008999999999999999,0.008,0.008,0.008,0.008,0.008,0.008,0.008,0.008,0.008,0.008,0.008,0.008,0.008,0.008,0.008,0.008,0.008,0.008,0.008,0.008,0.008,0.008,0.008,0.007,0.007,0.007,0.007,0.007,0.007,0.007,0.007,0.007,0.007,0.007,0.007,0.007,0.007,0.007,0.007,0.007,0.007,0.006,0.006,0.006,0.006,0.006,0.006,0.006,0.006,0.006,0.006,0.006,0.006,0.006,0.006,0.006,0.006,0.006,0.006,0.006,0.006,0.005,0.005,0.005,0.005,0.005,0.005,0.005,0.005,0.005,0.005,0.005,0.005,0.005,0.005,0.005,0.005,0.005,0.005,0.005,0.005,0.005,0.005,0.005,0.005,0.005,0.004,0.004,0.004,0.004,0.004,0.004,0.004,0.004,0.004,0.004,0.004,0.004,0.004,0.004,0.004,0.004,0.004,0.004,0.004,0.004,0.004,0.004,0.004,0.004,0.004,0.004,0.003,0.003,0.003,0.003,0.003,0.003,0.003,0.003,0.003,0.003,0.003,0.003,0.003,0.002,0.002,0.002,0.002,0.002,0.002,0.002,0.002]],"container":"<table class=\"display\">\n  <thead>\n    <tr>\n      <th>nconst<\/th>\n      <th>primaryName<\/th>\n      <th>age<\/th>\n      <th>category<\/th>\n      <th>average_person_success<\/th>\n    <\/tr>\n  <\/thead>\n<\/table>","options":{"pageLength":10,"columnDefs":[{"className":"dt-right","targets":[2,4]},{"name":"nconst","targets":0},{"name":"primaryName","targets":1},{"name":"age","targets":2},{"name":"category","targets":3},{"name":"average_person_success","targets":4}],"order":[],"autoWidth":false,"orderClasses":false}},"evals":[],"jsHooks":[]}</script>
 </div>
 </div>
-<p>Taking a look at some of the top actors/actresses below the age of 30, I found that Tom Holland ranks relatively high up with a success index of 0.234. Additionally, both of the Sci-Fi films he’s starred in of have scored very high on the success index, demonstrating his existing experience in this genre.</p>
+<p>Taking a look at some of the top actors/actresses below the age of 30, I found that Tom Holland ranks very high up (being 5th in average success out of 526 actors/actresses) in the top 1%, with a success index of 0.234. Additionally, both of the Sci-Fi films he’s starred in have scored very high on the success index, demonstrating his existing experience in this genre.</p>
 <div class="cell">
 <details class="code-fold">
 <summary>Code</summary>
@@ -1502,7 +1507,7 @@ Film Genre Questions
 <span id="cb84-3"><a href="#cb84-3" aria-hidden="true" tabindex="-1"></a></span>
 <span id="cb84-4"><a href="#cb84-4" aria-hidden="true" tabindex="-1"></a>tom_holland_projects <span class="sc">|&gt;</span></span>
 <span id="cb84-5"><a href="#cb84-5" aria-hidden="true" tabindex="-1"></a>  <span class="fu">ggplot</span>(<span class="fu">aes</span>(<span class="at">x =</span> primaryTitle, <span class="at">y =</span> success)) <span class="sc">+</span></span>
-<span id="cb84-6"><a href="#cb84-6" aria-hidden="true" tabindex="-1"></a>  <span class="fu">geom_bar</span>(<span class="at">stat =</span> <span class="st">"identity"</span>, <span class="at">width =</span> <span class="fl">0.5</span>, <span class="at">fill =</span> <span class="st">"#A2D9D9"</span>) <span class="sc">+</span></span>
+<span id="cb84-6"><a href="#cb84-6" aria-hidden="true" tabindex="-1"></a>  <span class="fu">geom_bar</span>(<span class="at">stat =</span> <span class="st">"identity"</span>, <span class="at">width =</span> <span class="fl">0.5</span>, <span class="at">fill =</span> <span class="st">"#F4B678"</span>) <span class="sc">+</span></span>
 <span id="cb84-7"><a href="#cb84-7" aria-hidden="true" tabindex="-1"></a>  <span class="fu">labs</span>(<span class="at">title =</span> <span class="st">"Tom Holland's Sci-Fi Films"</span>,</span>
 <span id="cb84-8"><a href="#cb84-8" aria-hidden="true" tabindex="-1"></a>       <span class="at">x =</span> <span class="st">"Movie Title"</span>,</span>
 <span id="cb84-9"><a href="#cb84-9" aria-hidden="true" tabindex="-1"></a>       <span class="at">y =</span> <span class="st">"Success Index"</span>)</span></code><button title="Copy to Clipboard" class="code-copy-button"><i class="bi"></i></button></pre></div>
@@ -1515,7 +1520,7 @@ Film Genre Questions
 </div>
 </div>
 </div>
-<p>I knew I wanted to pick a young talent with experience as a lead in major films. Tom Holland with his impressive résumé, including his starring role as Spider-Man in the Marvel Cinematic Universe presents him an ideal candidate. Even with the blockbuster movies he’s already been a part of, Holland can benefit from continuing to work with experienced Hollywood talent, like Harrison Ford.</p>
+<p>I knew I wanted to pick a young talent with experience as a lead in major films. Tom Holland with his impressive résumé, including his starring role as Spider-Man in the Marvel Cinematic Universe, presents him as an ideal candidate. Even with the blockbuster movies he’s already been a part of, Holland can benefit from continuing to work with experienced Hollywood talent, like Harrison Ford.</p>
 </section>
 </section>
 <section id="nostalgia-and-remakes" class="level2">
@@ -1592,7 +1597,7 @@ Film Genre Questions
 </section>
 <section id="trailer" class="level3">
 <h3 class="anchored" data-anchor-id="trailer">Trailer</h3>
-<p>From director Steven Spielberg, the visionary mind behind E.T. the Extra-Terrestrial; and from actor Harrison Ford, Hollywood icon and star of Indiana Jones; and from actor Tom Holland, popular upcoming star of the Sci-Fi genre, comes the timeless tale, Back to the Future. A story of adventure, time travel, and imagination. Coming soon to a theater near you!</p>
+<p>From director Steven Spielberg, the visionary mind behind <em>E.T. the Extra-Terrestrial</em>; and from actor Harrison Ford, Hollywood icon and star of Indiana Jones; and from actor Tom Holland, popular upcoming star of the Sci-Fi genre, comes the timeless tale, <em>Back to the Future</em>. A story of adventure, time travel, and imagination. Coming soon to a theater near you!</p>
 
 
 </section>
